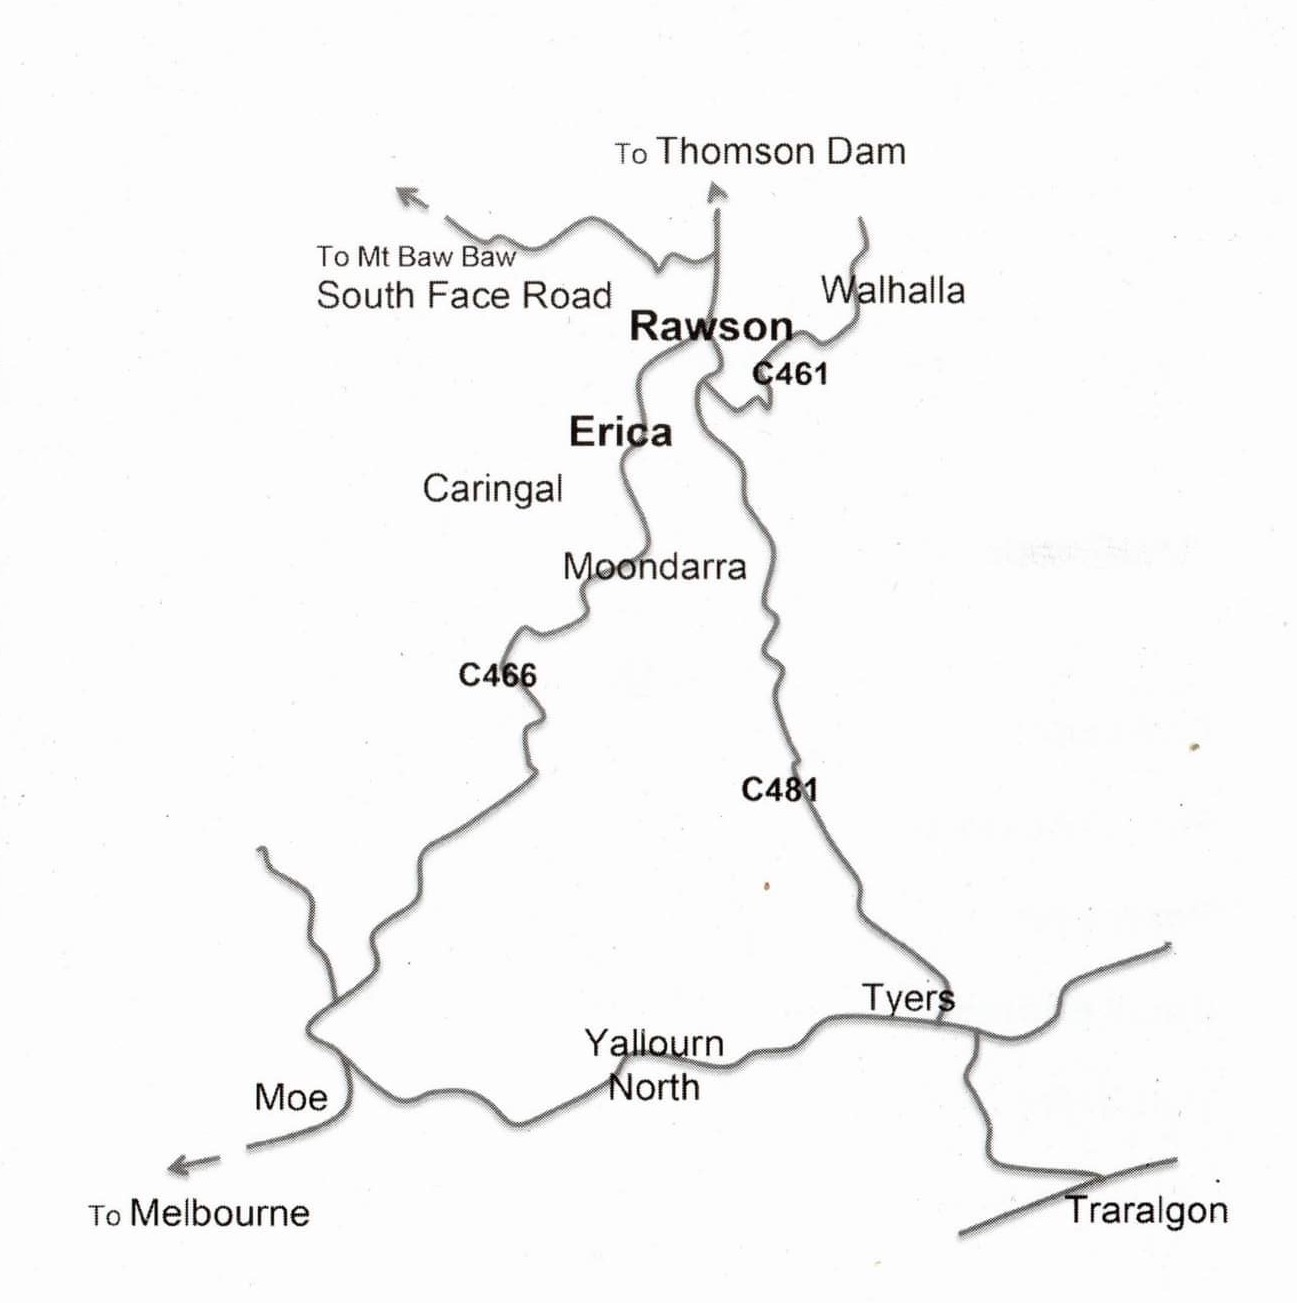
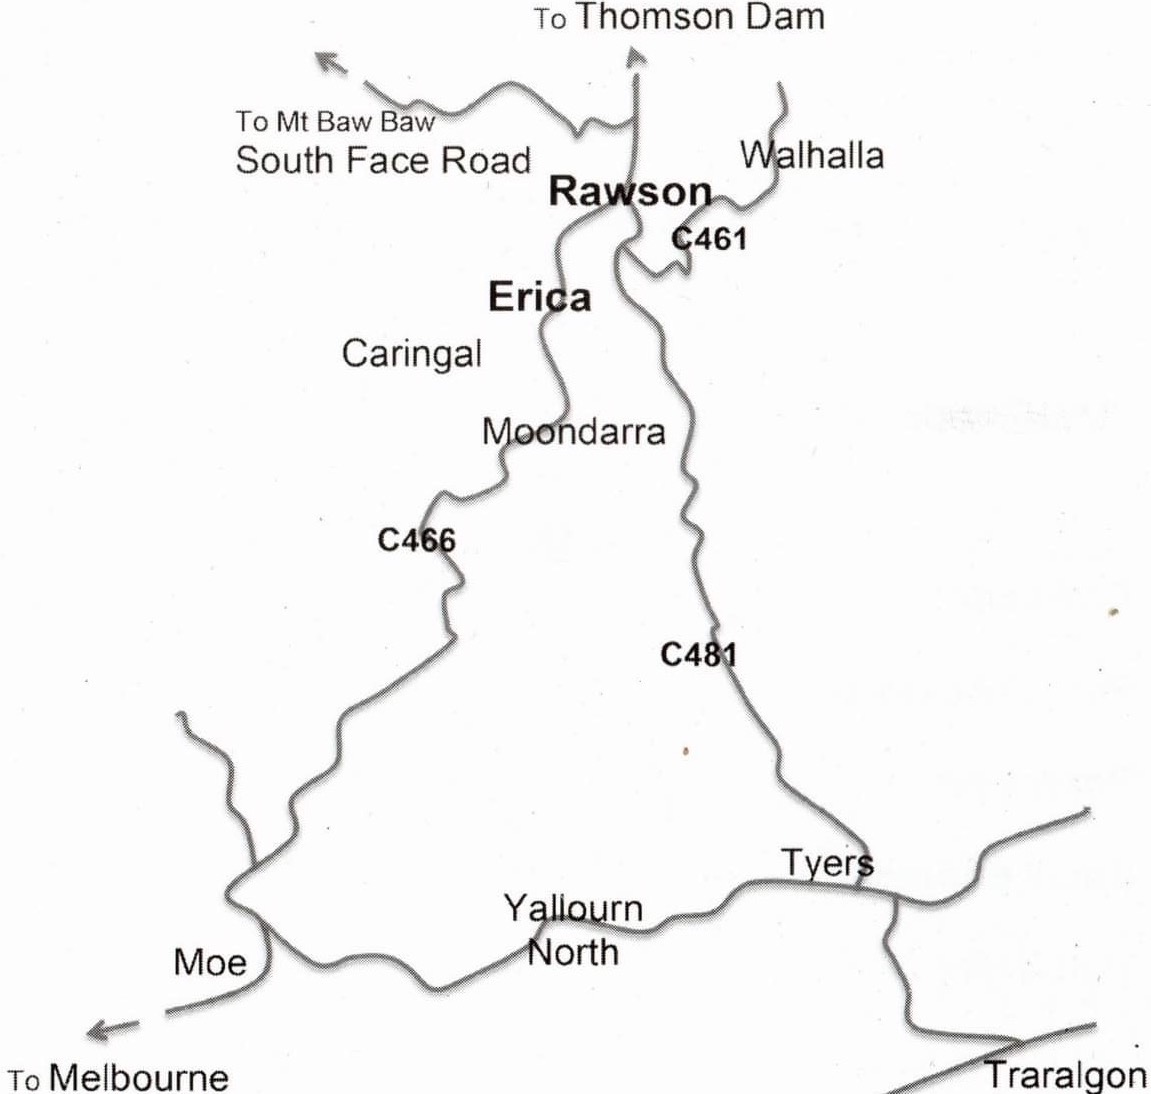
added map

Changed region(s): [[0.0, 0.0, 1.0, 1.0], [0.3649, 0.9013, 0.3953, 0.9324]]

diff --git a/history.html b/history.html
@@ -20,36 +20,42 @@
             </ul>
           </nav>
         <br />
-        <div class="leftBody">
-          <h3>The Purposes/ Aims of the Association are - </h3>
-          <p>To promote within the general community a knowledge of, and enthusiasm for, 
+        <div class="pagebody">
+          <div class="leftBody">
+            <h3>The Purposes/ Aims of the Association are - </h3>
+            <p>To promote within the general community a knowledge of, and enthusiasm for, 
             the historical, cultural and environmental heritage of Erica; including, but 
             not limited to the towns and settlements of her districts; namely Moondarra,
             Rawson, Parkers Corner, Coopers Creek, Jubilee, Jacobs Creek, Caringal, Gould and
             Tyres Junction by :
-          </p>
-          <ul id="linksLeft">
-            <li>The collection and preservation of materials of historical interest
+            </p>
+            <ul id="linksLeft">
+              <li>The collection and preservation of materials of historical interest
               related to the area; including oral histories.
-            </li>
-            <br />
-            <li>The provision of a library and archives collection.</li>
-            <br />
-            <li>The dissemination of knowledge of Erica and her districts history through
+             </li>
+              <br />
+              <li>The provision of a library and archives collection.</li>
+              <br />
+             <li>The dissemination of knowledge of Erica and her districts history through
               a newsletter, publications, excursions and by other means.
-            </li>
-            <br />
-            <li>The encouragement of the renovation, preservation and maintenance of
+              </li>
+              <br />
+              <li>The encouragement of the renovation, preservation and maintenance of
               historical sites and buildings.
-            </li>
-          </ul>
-        </div> <!--leftBody-->
-        
-
+              </li>
+            </ul>
+          </div> <!--leftBody-->
+          <div class="rightBody">
+            <h3>Map of Erica and her districts</h3>
+            <img src="./resources/images/History/map1.jpeg" width="50%" >
+          </div>
+        </div> <!--pagebody-->
+        <br />
+        <br />
+        </div> <!--mainbody-->
         <div class="footer">
           <img class="foot" src="./resources/images/History/logo.png" alt="Logo">
           <p class="footname"> &copy; By Terry Baillie 2022 </p>  
         </div> <!--footer-->
-      </div> <!--mainbody-->
    </body>
  </html>

diff --git a/resources/css/history.css b/resources/css/history.css
@@ -51,7 +51,11 @@ html body{
   font-size: 1.5rem;
   font-weight: 400;
 }
+.pagebody {
+  display: flex;
+  justify-content:space-around;
 
+}
 .leftBody {
   margin-top: 250px;
   width: 50%;
@@ -63,6 +67,16 @@ html body{
   font-size: 1.2rem;
   letter-spacing: 0.1rem;
   line-height: 1.5rem;
+}
+.rightBody {
+  width: 100%;
+  margin-top: 250px;
+  margin-right: -450px;
+}
+.rightBody h3 {
+  width: 40%;
+  justify-items: center;
+  padding-left: 100px;
 }
 
 a {
@@ -90,10 +104,10 @@ p {
   display: flex;
   justify-content: space-between;
   align-content: center;
-  position: absolute;
-  bottom: 0;
-  width: 100%;
-  height: 180px;           
+  width: 107%;
+  height: 180px; 
+  margin-left: -6px;
+  position: relative;       
 }
 .foot {
   width: 70px;
@@ -110,12 +124,13 @@ p {
 } 
 @media(max-width: 1000px) {
   .leftBody {
-    width: 100%;
+    width: 60%;
+    margin-top: 310px;
+  }
+  .rightBody {
+    margin-top: 310px;
   }
   .nav #navigation {
     display: block;
-  }
-  .leftBody {
-    margin-top: 310px;
   }
 }  
